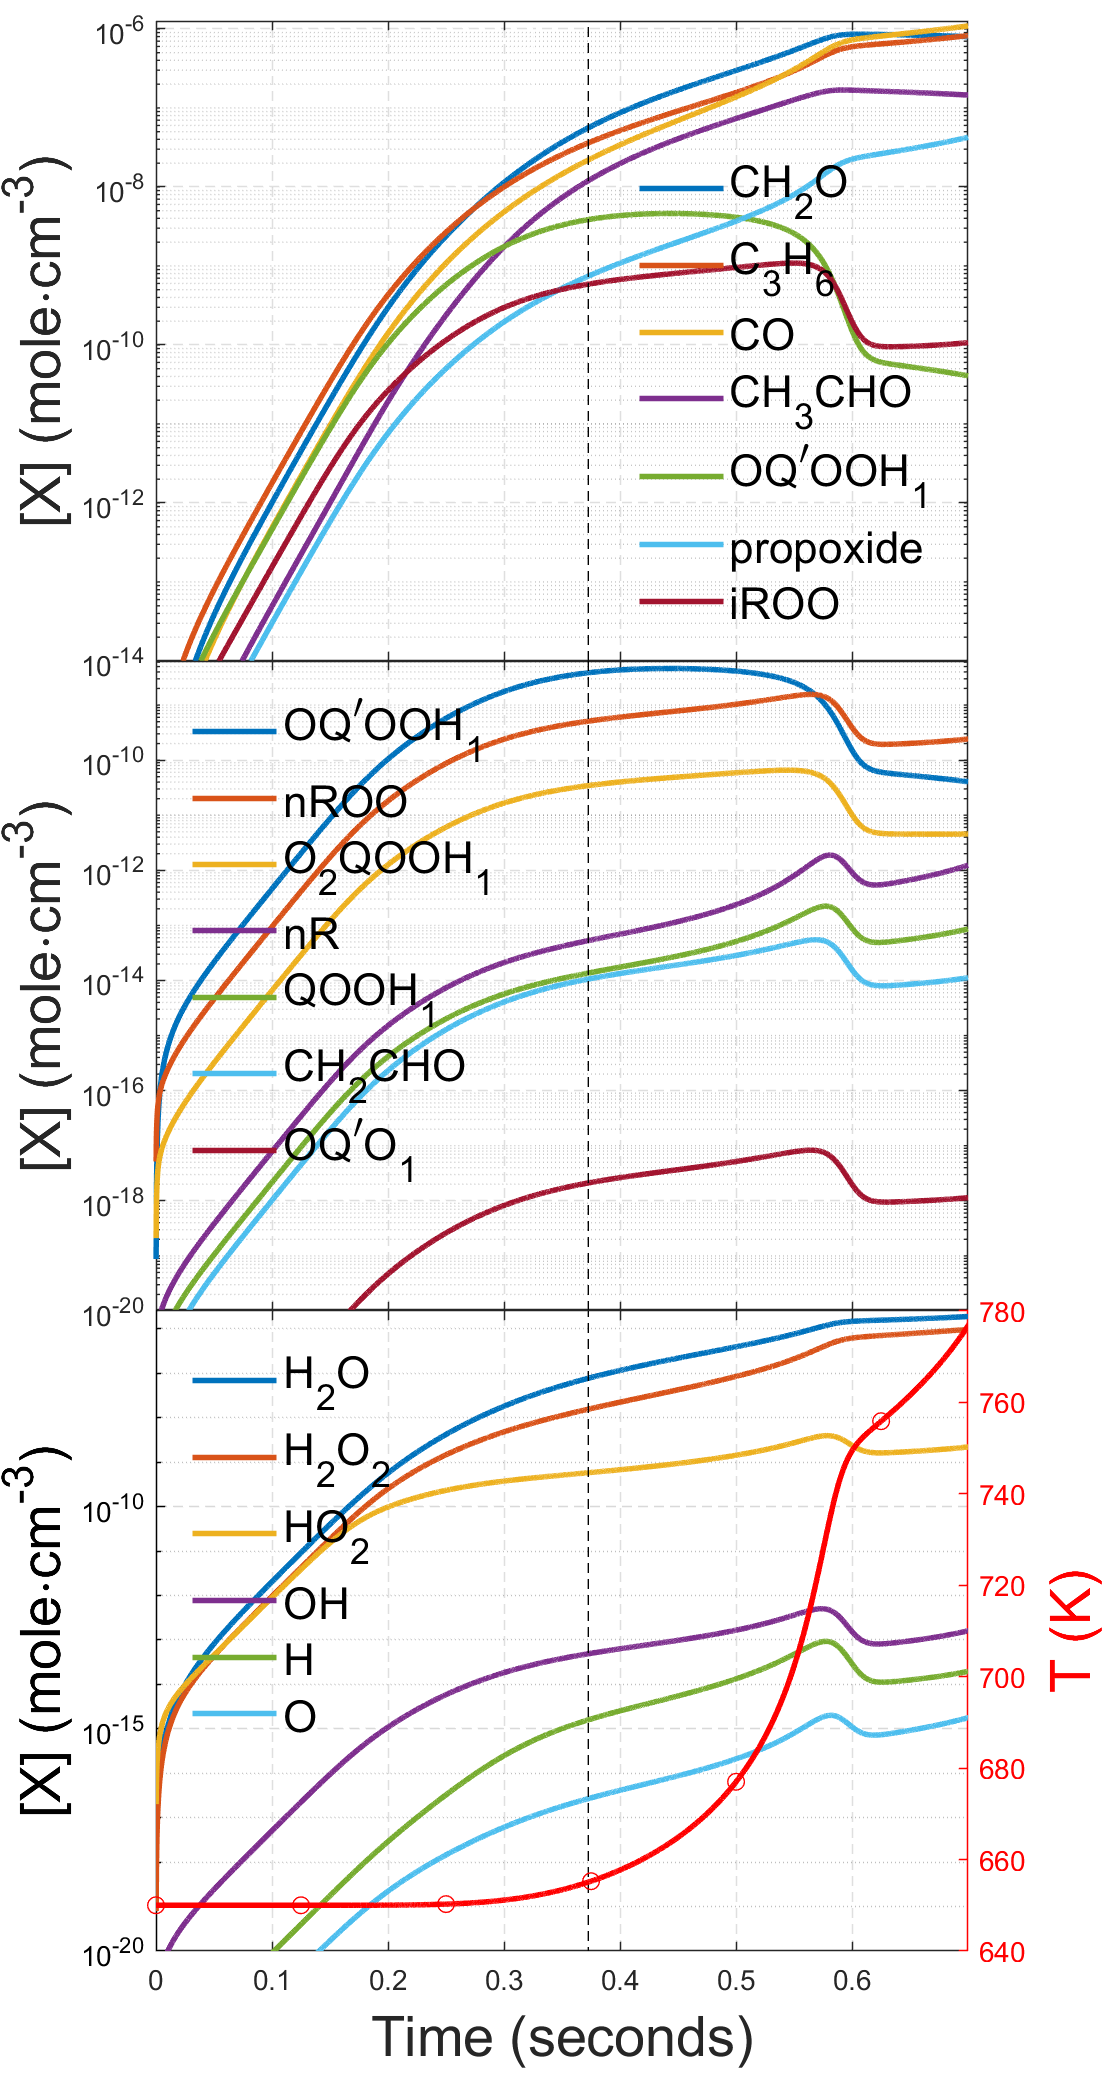
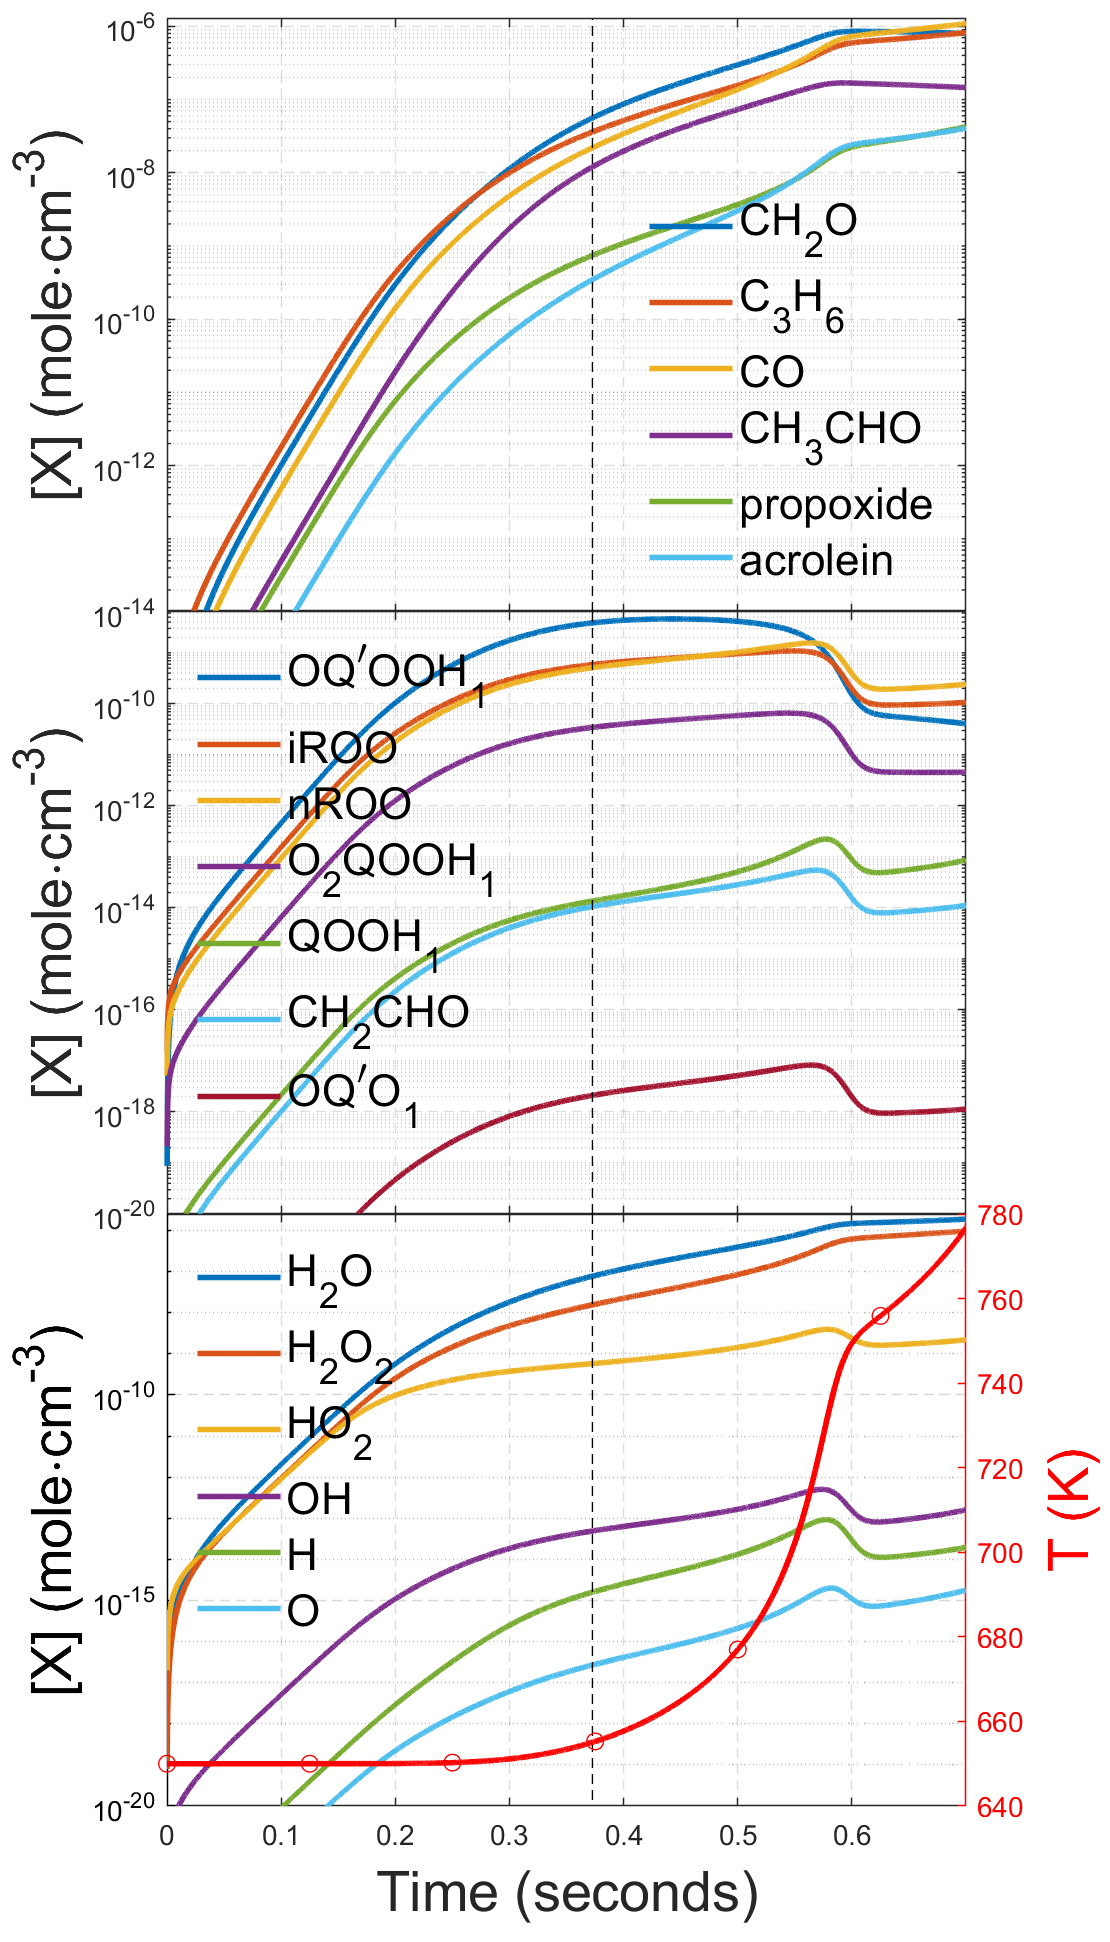
minor

diff --git a/theory/misc/trajectory/traj_3_in_1_v2.m b/theory/misc/trajectory/traj_3_in_1_v2.m
@@ -66,7 +66,7 @@ set(fig,'defaultAxesColorOrder',co)
 tau = 0.777660157519;
 end_t = 0.9;
 
-xpos = [0.14 0.87];
+xpos = [0.15 0.87];
 ypos = [0.07, 0.375, 0.375, 0.685, 0.685, 0.99];
 
 %##########################################################################
@@ -80,19 +80,17 @@ subplot('Position',pos);
 
 % plot conc
 % CH2O
-semilogy(time_vec, conc_mat(:, 18), 'LineWidth', 2); hold on;
+semilogy(time_vec, conc_mat(:, 17+1), 'LineWidth', 2); hold on;
 % C3H6
-semilogy(time_vec, conc_mat(:, 60), 'LineWidth', 2); hold on;
+semilogy(time_vec, conc_mat(:, 59+1), 'LineWidth', 2); hold on;
 % CO
-semilogy(time_vec, conc_mat(:, 15), 'LineWidth', 2); hold on;
+semilogy(time_vec, conc_mat(:, 14+1), 'LineWidth', 2); hold on;
 % acetaldehyde
-semilogy(time_vec, conc_mat(:, 45), 'LineWidth', 2); hold on;
-% prod_1
-semilogy(time_vec, conc_mat(:, 95), 'LineWidth', 2); hold on;
+semilogy(time_vec, conc_mat(:, 44+1), 'LineWidth', 2); hold on;
 % propoxide
-semilogy(time_vec, conc_mat(:, 87), 'LineWidth', 2); hold on;
-% ipropyloo
-semilogy(time_vec, conc_mat(:, 81), 'LineWidth', 2); hold on;
+semilogy(time_vec, conc_mat(:, 86+1), 'LineWidth', 2); hold on;
+% acrolein
+semilogy(time_vec, conc_mat(:, 69+1), 'LineWidth', 2); hold on;
 
 sort_axis = round(0.42 * length(time_vec));
 semilogy([time_vec(sort_axis), time_vec(sort_axis)], [10^-50, 10^1], ...
@@ -109,7 +107,7 @@ ylim([10^-14, 10^-5.9]);
 %% global settings
 grid on;
 xlim([0, tau*end_t]);
-leg_str = {'CH_2O','C_3H_6','CO','CH_3CHO','OQ^{\prime}OOH_1','propoxide','iROO'};
+leg_str = {'CH_2O','C_3H_6','CO','CH_3CHO','propoxide','acrolein'};
 leg_h = legend(leg_str);
 set(leg_h, 'FontSize', 16, 'Box', 'off');
 set(leg_h, 'Location', 'SouthEast')
@@ -139,12 +137,12 @@ subplot('Position',pos);
 % plot conc
 % prod_1
 semilogy(time_vec, conc_mat(:, 95), 'LineWidth', 2); hold on;
+% ipropyloo
+semilogy(time_vec, conc_mat(:, 81), 'LineWidth', 2); hold on;
 % npropyloo
 semilogy(time_vec, conc_mat(:, 79), 'LineWidth', 2); hold on;
 % well_1
 semilogy(time_vec, conc_mat(:, 91), 'LineWidth', 2); hold on;
-% npropyl
-semilogy(time_vec, conc_mat(:, 61), 'LineWidth', 2); hold on;
 % QOOH_1
 semilogy(time_vec, conc_mat(:, 88), 'LineWidth', 2); hold on;
 % vinoxy
@@ -167,7 +165,7 @@ ylim([10^-20, 10^-8.2]);
 %% global settings
 grid on;
 xlim([0, tau*end_t]);
-leg_str = {'OQ^{\prime}OOH_1','nROO','O_2QOOH_1','nR','QOOH_1','CH_2CHO','OQ^{\prime}O_1'};
+leg_str = {'OQ^{\prime}OOH_1','iROO','nROO','O_2QOOH_1','QOOH_1','CH_2CHO','OQ^{\prime}O_1'};
 leg_h = legend(leg_str);
 set(leg_h, 'FontSize', 16, 'Box', 'off');
 set(leg_h, 'Location', 'NorthWest')
